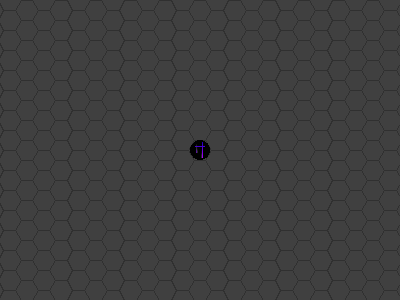
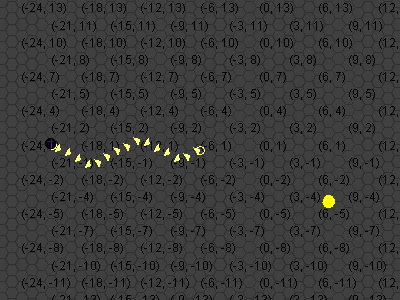
Added soft waypoints
Will attempt to make moves as the player has instructed; however, it will take a faster route if one can be found. It will NOT do this with hard waypoints.

diff --git a/src/main/java/botmanager/frostbalance/menu/Menu.kt b/src/main/java/botmanager/frostbalance/menu/Menu.kt
@@ -125,18 +125,14 @@ abstract class Menu(protected var bot: Frostbalance, val context : MessageContex
     private fun nextDeletion(messageId: Long, responses: List<MenuResponse>, index: Int = 0, offset: Int = 0) {
         message?.reactions?.let {
             it.getOrNull(index + offset)?.let { mr ->
-                println("Intended response here: ${responses[index].emoji.toByteArray().contentToString()}")
-                println("Response being compared: ${mr.reactionEmote.emoji.toByteArray().contentToString()}")
                 if (responses.size > index && responses[index].emoji == mr.reactionEmote.emoji) { //this emote is in place
                     mr.retrieveUsers().queue { users ->
-                        println("Users for clearing other: $users")
                         mr.clearInstanceEvent(null, false, users)?.queue { //delete all but itself
                             nextDeletion(messageId, responses, index + 1, offset) //check for the next emote response
                         } ?: nextDeletion(messageId, responses, index + 1, offset)
                     }
                 } else { //this emote is out of place
                     mr.retrieveUsers().queue { users ->
-                        println("Users: $users")
                         mr.clearInstanceEvent(null, true, users)!!.queue { //delete all, even itself
                             nextDeletion(messageId, responses, index, offset + 1)
                         }
@@ -364,7 +360,7 @@ abstract class Menu(protected var bot: Frostbalance, val context : MessageContex
                 if (originalMenu.message!!.isFromGuild && (self || bot.jda.selfUser != user)) {
                     val newEvent = removeReaction(user)
                     returnEvent = returnEvent?.flatMap{ println("Deleting ${this.reactionEmote.emoji} from $user"); newEvent } ?: run {
-                        println("Brand new delete event"); newEvent
+                        newEvent
                     }
                 }
             }

diff --git a/src/main/java/botmanager/frostbalance/GameNetwork.kt b/src/main/java/botmanager/frostbalance/GameNetwork.kt
@@ -9,7 +9,7 @@ import kotlin.collections.HashSet
 
 class GameNetwork(@Transient var bot: Frostbalance, var id: String) : Containable<Frostbalance>, Container {
 
-    private var turn: Int = 0
+    private var turn: Long = 0
     var worldMap: WorldMap = WorldMap(this)
     var associatedGuilds: MutableSet<GuildWrapper> = HashSet()
 

diff --git a/src/main/java/botmanager/frostbalance/grid/ClaimData.kt b/src/main/java/botmanager/frostbalance/grid/ClaimData.kt
@@ -311,7 +311,6 @@ class ClaimData(tile: Tile?) : TileData(tile), Container {
     get() = {
         Utilities.triangulateWithRemainder(ownerStrength.value)
                 .run {
-                    println("Level on this tile: $this (from owner strength $ownerStrength)")
                     this
                 }
     }

diff --git a/src/main/java/botmanager/frostbalance/action/routine/MoveToRoutine.java b/src/main/java/botmanager/frostbalance/action/routine/MoveToRoutine.java
@@ -8,7 +8,6 @@ import botmanager.frostbalance.grid.PlayerCharacter;
 import botmanager.frostbalance.grid.coordinate.Hex;
 
 import java.util.ArrayList;
-import java.util.LinkedList;
 import java.util.List;
 import java.util.Queue;
 import java.util.concurrent.LinkedBlockingQueue;
@@ -32,9 +31,10 @@ public class MoveToRoutine extends Routine {
         this.destination = destination;
     }
 
-    public MoveToRoutine(ActionQueue queue, Hex destination) {
+    public MoveToRoutine(ActionQueue queue, Hex destination, List<Hex> softWaypoints) {
         setParent(queue);
         this.destination = destination;
+        this.softWaypoints = softWaypoints;
     }
 
     public MoveToRoutine(ActionQueue queue, Hex.Direction direction, int amount) {
@@ -43,8 +43,8 @@ public class MoveToRoutine extends Routine {
         Hex previousDestination;
         if (previousRoutine == null) {
             System.out.println("Adding after last destination!");
-            List<Hex> waypoints = queue.simulation().waypoints();
-            previousDestination = waypoints.get(waypoints.size() - 1); //last waypoint
+            List<Hex> hardWaypoints = queue.simulation().waypoints(false);
+            previousDestination = hardWaypoints.get(hardWaypoints.size() - 1); //last waypoint
         } else {
             System.out.println("Replacing last destination!");
             softWaypoints = previousRoutine.getSoftWaypoints();
@@ -63,13 +63,26 @@ public class MoveToRoutine extends Routine {
             distances.add(lastLocation.minimumDistance(hex));
             lastLocation = hex;
         }
-        while (!distances.isEmpty() && startLocation.minimumDistance(getDestination()) < Utilities.addNumericalList(distances)) {
-            System.out.println("Removing soft waypoint at " + softWaypoints.remove(softWaypoints.size() - 1).toString());
+        distances.add(lastLocation.minimumDistance(destination));
+        long minDistance = startLocation.minimumDistance(getDestination());
+        long actualDistance = Utilities.addNumericalList(distances);
+        while (!distances.isEmpty() && minDistance < actualDistance) {
+            System.out.println(minDistance + " IS MIN DISTANCE, CURRENT IS " + actualDistance);
+            System.out.println("Removing soft waypoint at " + softWaypoints.remove(softWaypoints.size() - 1));
             distances.remove(distances.size() - 1);
+            minDistance = startLocation.minimumDistance(getDestination());
+            actualDistance = Utilities.addNumericalList(distances);
         }
+        System.out.println(minDistance + " IS MIN DISTANCE, CURRENT IS " + actualDistance);
+        System.out.println("Getting soft waypoints, after update, for " + this);
+        getSoftWaypoints();
     }
 
-    private List<Hex> getSoftWaypoints() {
+    /**
+     * Returns a new list containing all soft waypoints. Does not include the final destination.
+     */
+    public List<Hex> getSoftWaypoints() {
+        System.out.println("SOFT WAYPOINTS:" + softWaypoints.toString());
         return new ArrayList<>(softWaypoints);
     }
 
@@ -83,10 +96,15 @@ public class MoveToRoutine extends Routine {
 
     @Override
     public MoveAction peekAction() {
+        while (!softWaypoints.isEmpty() && softWaypoints.get(0).equals(queue.getCharacter().getLocation())) {
+            System.out.println("Removing soft waypoint " + softWaypoints.remove(0));
+        }
         if (destination.equals(queue.getCharacter().getLocation())) {
             return null;
-        } else {
+        } else if (softWaypoints.isEmpty()) {
             return new MoveAction(queue.getCharacter(), destination.subtract(queue.getCharacter().getLocation()).crawlDirection());
+        } else {
+            return new MoveAction(queue.getCharacter(), softWaypoints.get(0).subtract(queue.getCharacter().getLocation()).crawlDirection());
         }
 
     }
@@ -97,14 +115,13 @@ public class MoveToRoutine extends Routine {
 
     /**
      * Guesses what the actions of this routine will be based on the state of the mobile.
-     * @return True if the routine completed; false if actions were already queued
      */
     public Queue<MoveAction> peekAtAllActions(int simulationStep) {
 
         Queue<MoveAction> moveActions = new LinkedBlockingQueue<>();
 
         ActionQueue simulation = queue.simulation(simulationStep);
-        List<Hex> locations = simulation.waypoints();
+        List<Hex> locations = simulation.waypoints(true);
         Hex startLocation;
         if (locations.isEmpty()) {
             startLocation = queue.getCharacter().getLocation();
@@ -120,16 +137,12 @@ public class MoveToRoutine extends Routine {
 
     }
 
-    public List<Hex.Direction> directionsFrom(Hex location) {
-        return new LinkedList<>(getDestination().subtract(location).crawlDirections());
-    }
-
     public Hex getDestination() {
         return destination;
     }
 
     @Override
     public QueueStep simulate() {
-        return new MoveToRoutine(this.queue, this.destination);
+        return new MoveToRoutine(this.queue, this.destination, this.softWaypoints);
     }
 }

diff --git a/src/main/java/botmanager/frostbalance/render/MapRenderer.java b/src/main/java/botmanager/frostbalance/render/MapRenderer.java
@@ -2,7 +2,6 @@ package botmanager.frostbalance.render;
 
 import botmanager.frostbalance.Nation;
 import botmanager.frostbalance.Player;
-import botmanager.frostbalance.action.ActionQueue;
 import botmanager.frostbalance.grid.PlayerCharacter;
 import botmanager.frostbalance.grid.Tile;
 import botmanager.frostbalance.grid.TileObject;
@@ -58,7 +57,6 @@ public class MapRenderer {
             String link;
             try {
                 String resultJson = net.dv8tion.imup.Uploader.upload(new File("maprender.png"));
-                System.out.println(resultJson);
                 JsonObject obj = JsonParser.parseString(resultJson).getAsJsonObject();
                 link = obj.get("data").getAsJsonObject().get("link").getAsString();
             } catch (WebException e) {
@@ -176,9 +174,15 @@ public class MapRenderer {
             color = playerCharacter.getNation().getColor();
         } else color = Color.GRAY;
         g.setColor(new Color(Math.max(128, color.getRed()), Math.max(128, color.getGreen()), Math.max(128, color.getBlue())));
+        List<Hex> waypoints = playerCharacter.getActionQueue().simulation().waypoints(false);
+        for (Hex waypoint : waypoints) {
+            g.drawOval((int)(location.add(waypoint.subtract(playerCharacter.getLocation())).drawX() * size_factor) + DEFAULT_WIDTH/2 - 4,
+                    (int)(location.add(waypoint.subtract(playerCharacter.getLocation())).drawY() * size_factor) + DEFAULT_HEIGHT/2 - 4,
+                    8,
+                    8);
+        }
         Hex offset = Hex.origin();
-        ActionQueue simulation = playerCharacter.getActionQueue().simulation();
-        List<Hex.Direction> instructions = simulation.moves();
+        List<Hex.Direction> instructions = playerCharacter.getActionQueue().simulation().moves();
         for (Hex.Direction nextDirection : instructions) {
             //g.drawLine((int)(location.add(offset).drawX() * size_factor) + DEFAULT_WIDTH/2,
             //        (int)(location.add(offset).drawY() * size_factor) + DEFAULT_HEIGHT/2,

diff --git a/src/main/java/botmanager/frostbalance/action/ActionQueue.java b/src/main/java/botmanager/frostbalance/action/ActionQueue.java
@@ -119,7 +119,7 @@ public class ActionQueue extends LinkedList<QueueStep> implements Container, Con
         System.out.println("Mapping to moveset");
         List<Hex.Direction> directionChanges = new ArrayList<>();
         Hex lastWaypoint = playerCharacter.getLocation();
-        for (Hex waypoint : waypoints()) {
+        for (Hex waypoint : waypoints(true)) {
             directionChanges.addAll(waypoint.subtract(lastWaypoint).crawlDirections());
             lastWaypoint = waypoint;
         }
@@ -132,7 +132,7 @@ public class ActionQueue extends LinkedList<QueueStep> implements Container, Con
      * Should only ever be run on a simulation.
      * @return
      */
-    public List<Hex> waypoints() {
+    public List<Hex> waypoints(boolean includeSoft) {
         LinkedList<Hex> locations = new LinkedList<>();
         locations.add(playerCharacter.getLocation());
         while (!isEmpty()) {
@@ -140,6 +140,10 @@ public class ActionQueue extends LinkedList<QueueStep> implements Container, Con
             if (queueStep instanceof MoveAction) {
                 locations.add(locations.getLast().move(((MoveAction) queueStep).getDirection()));
             } else if (queueStep instanceof MoveToRoutine) {
+                if (includeSoft) {
+                    System.out.println("Getting soft waypoints for " + queueStep);
+                    locations.addAll(((MoveToRoutine) queueStep).getSoftWaypoints());
+                }
                 locations.add(((MoveToRoutine) queueStep).getDestination());
             } else if (queueStep instanceof RepeatRoutine && ((RepeatRoutine) queueStep).getAction() instanceof MoveAction) {
                 locations.add(locations.getLast().move(((MoveAction) ((RepeatRoutine) queueStep).getAction()).getDirection(), ((RepeatRoutine) queueStep).getAmount()));

diff --git a/src/main/java/botmanager/frostbalance/grid/TileObject.java b/src/main/java/botmanager/frostbalance/grid/TileObject.java
@@ -14,7 +14,7 @@ public abstract class TileObject extends TileData {
 
     transient private BufferedImage cachedImage;
     transient private long cachedImageDate;
-    transient private Object lastActiveTurn;
+    transient private long lastActiveTurn;
     protected ActionQueue actionQueue;
 
     protected TileObject(Tile tile) {
@@ -72,7 +72,7 @@ public abstract class TileObject extends TileData {
      */
     public abstract boolean turnAction();
 
-    public boolean doTurn(@NotNull Object turn) {
+    public boolean doTurn(@NotNull long turn) {
         if (this.lastActiveTurn != turn) {
             lastActiveTurn = turn;
             return turnAction();

diff --git a/src/main/java/botmanager/frostbalance/menu/MapMenu.java b/src/main/java/botmanager/frostbalance/menu/MapMenu.java
@@ -181,9 +181,7 @@ public class MapMenu extends Menu {
                     directionNames[i] = "(" + Hex.Direction.values()[i].name().toUpperCase() + ")";
                 }
                 String pattern = "(" + String.join("|", directionNames) + ") [0-9]{1,3}";
-                System.out.println(pattern);
                 String content = hookContext.getMessage().getContentRaw().toUpperCase();
-                System.out.println(content);
                 return content.matches(pattern);
             }
         });

diff --git a/src/main/java/botmanager/frostbalance/grid/PlayerCharacter.java b/src/main/java/botmanager/frostbalance/grid/PlayerCharacter.java
@@ -132,7 +132,7 @@ public class PlayerCharacter extends TileObject implements Container {
     }
 
     public Hex getDestination() {
-        List<Hex> waypoints = getActionQueue().simulation().waypoints();
+        List<Hex> waypoints = getActionQueue().simulation().waypoints(false);
         return waypoints.get(waypoints.size() - 1); //last waypoint
     }
 

diff --git a/src/main/java/botmanager/frostbalance/records/RegimeData.java b/src/main/java/botmanager/frostbalance/records/RegimeData.java
@@ -91,7 +91,6 @@ public class RegimeData implements Containable<GuildWrapper> {
 
     @Override
     public void setParent(GuildWrapper parent) {
-        System.out.println("Setting parent");
         guildWrapper = parent;
     }
 }
